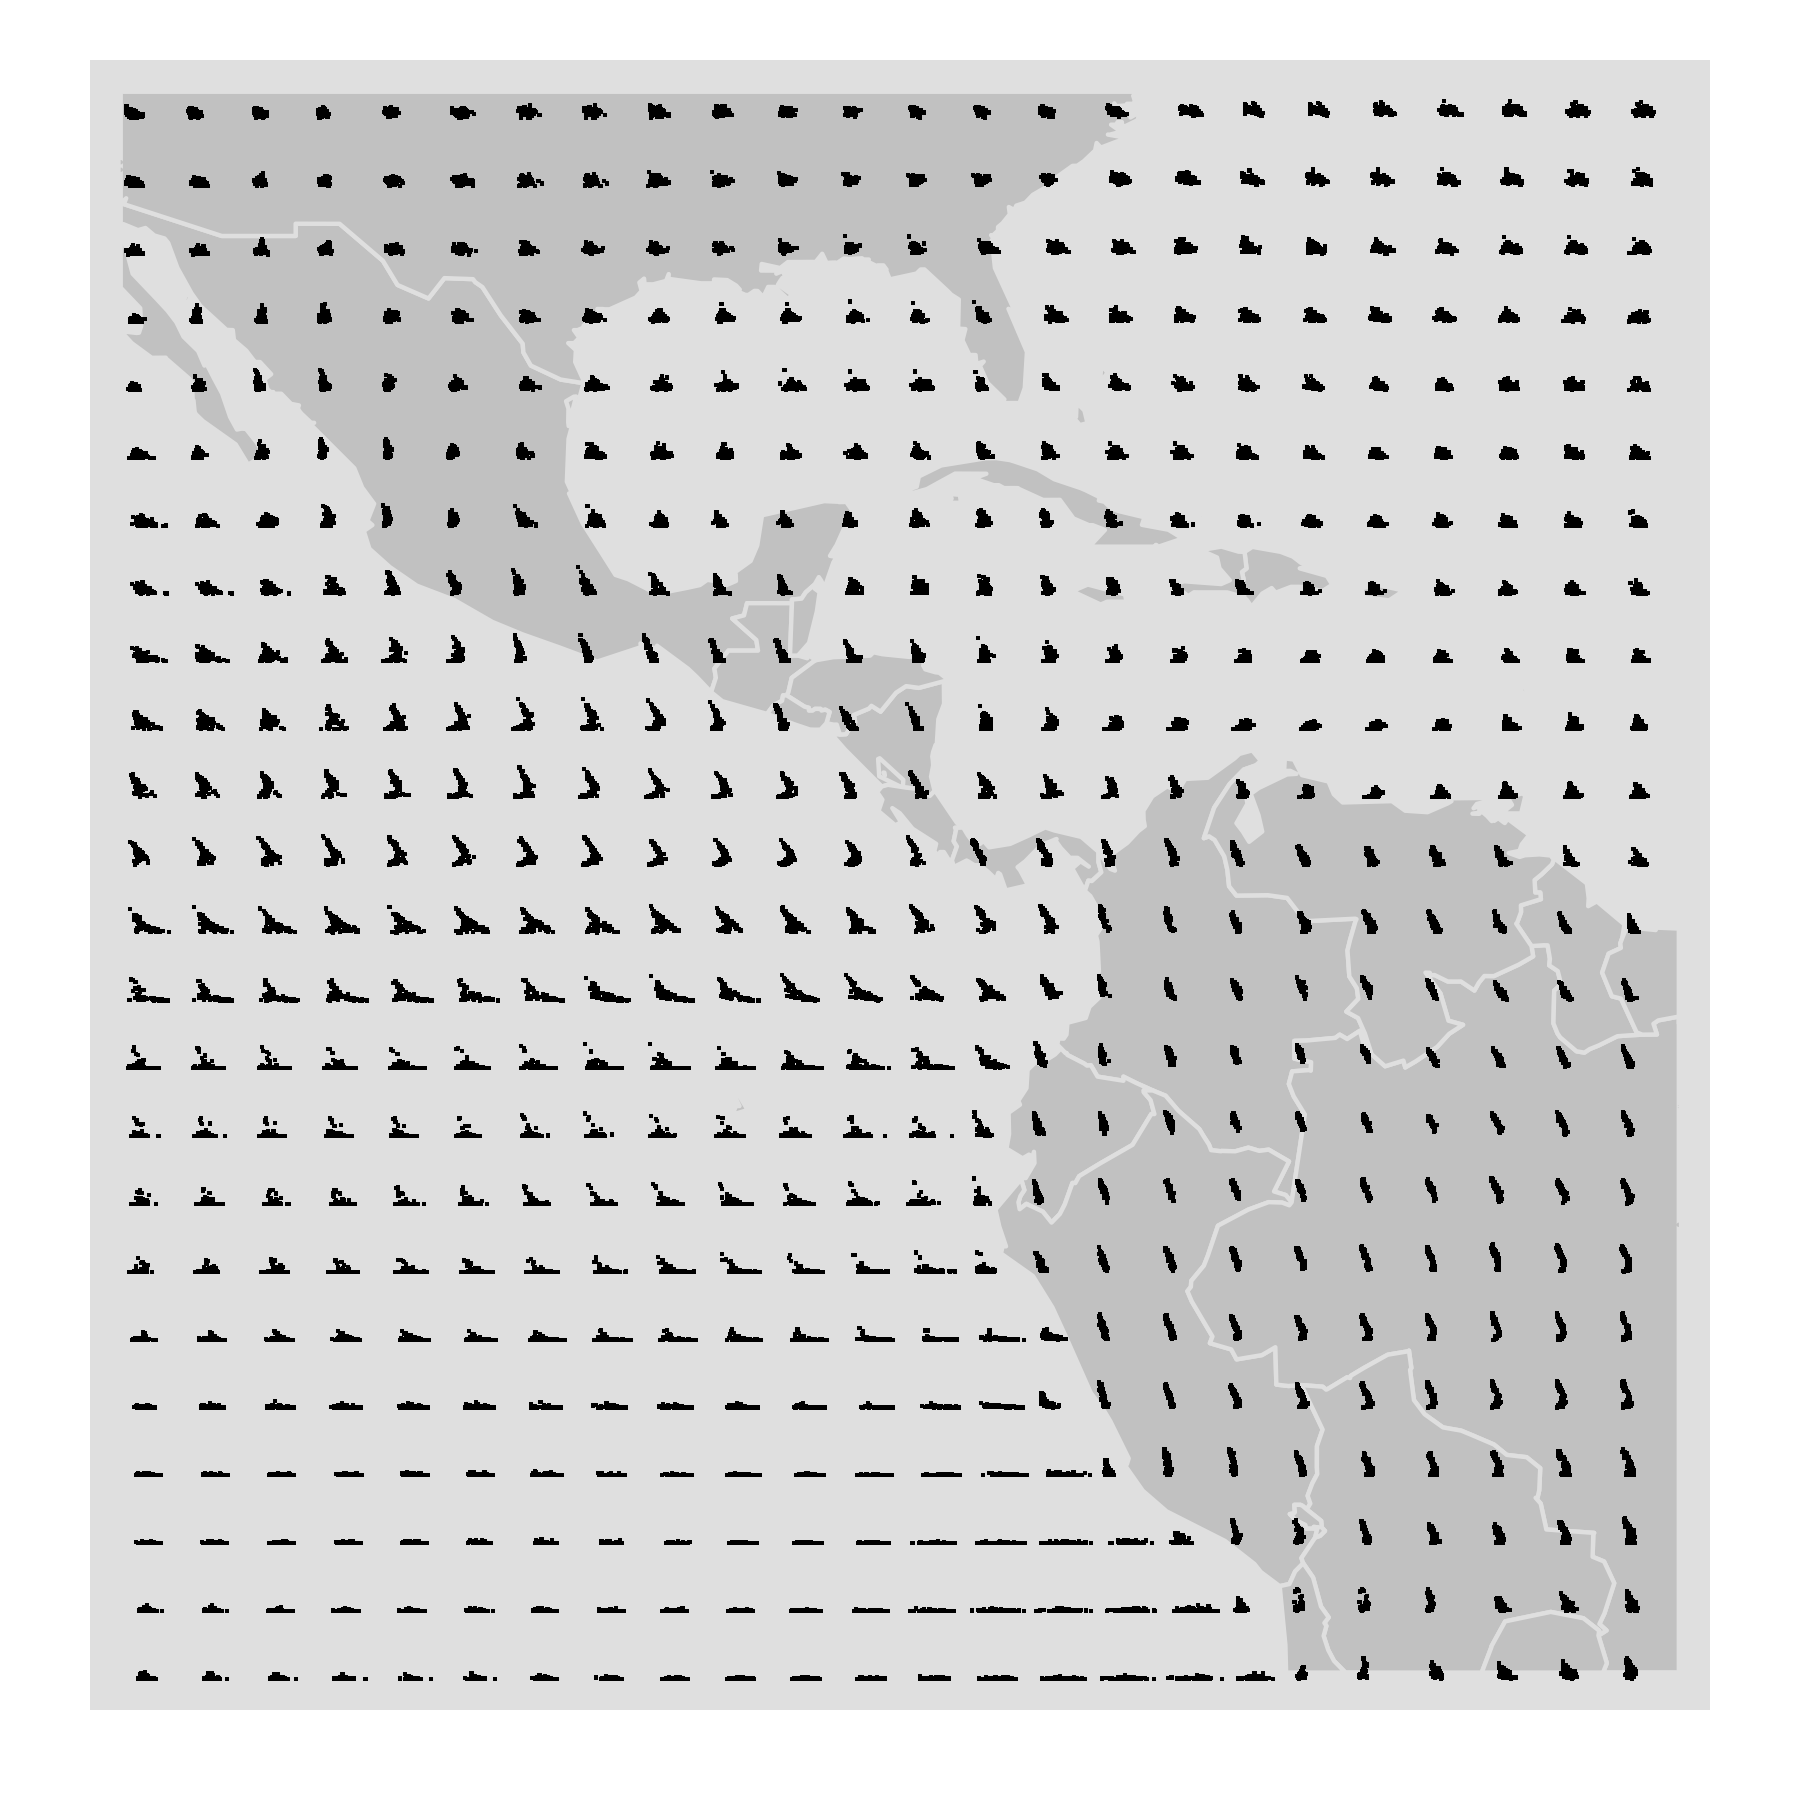
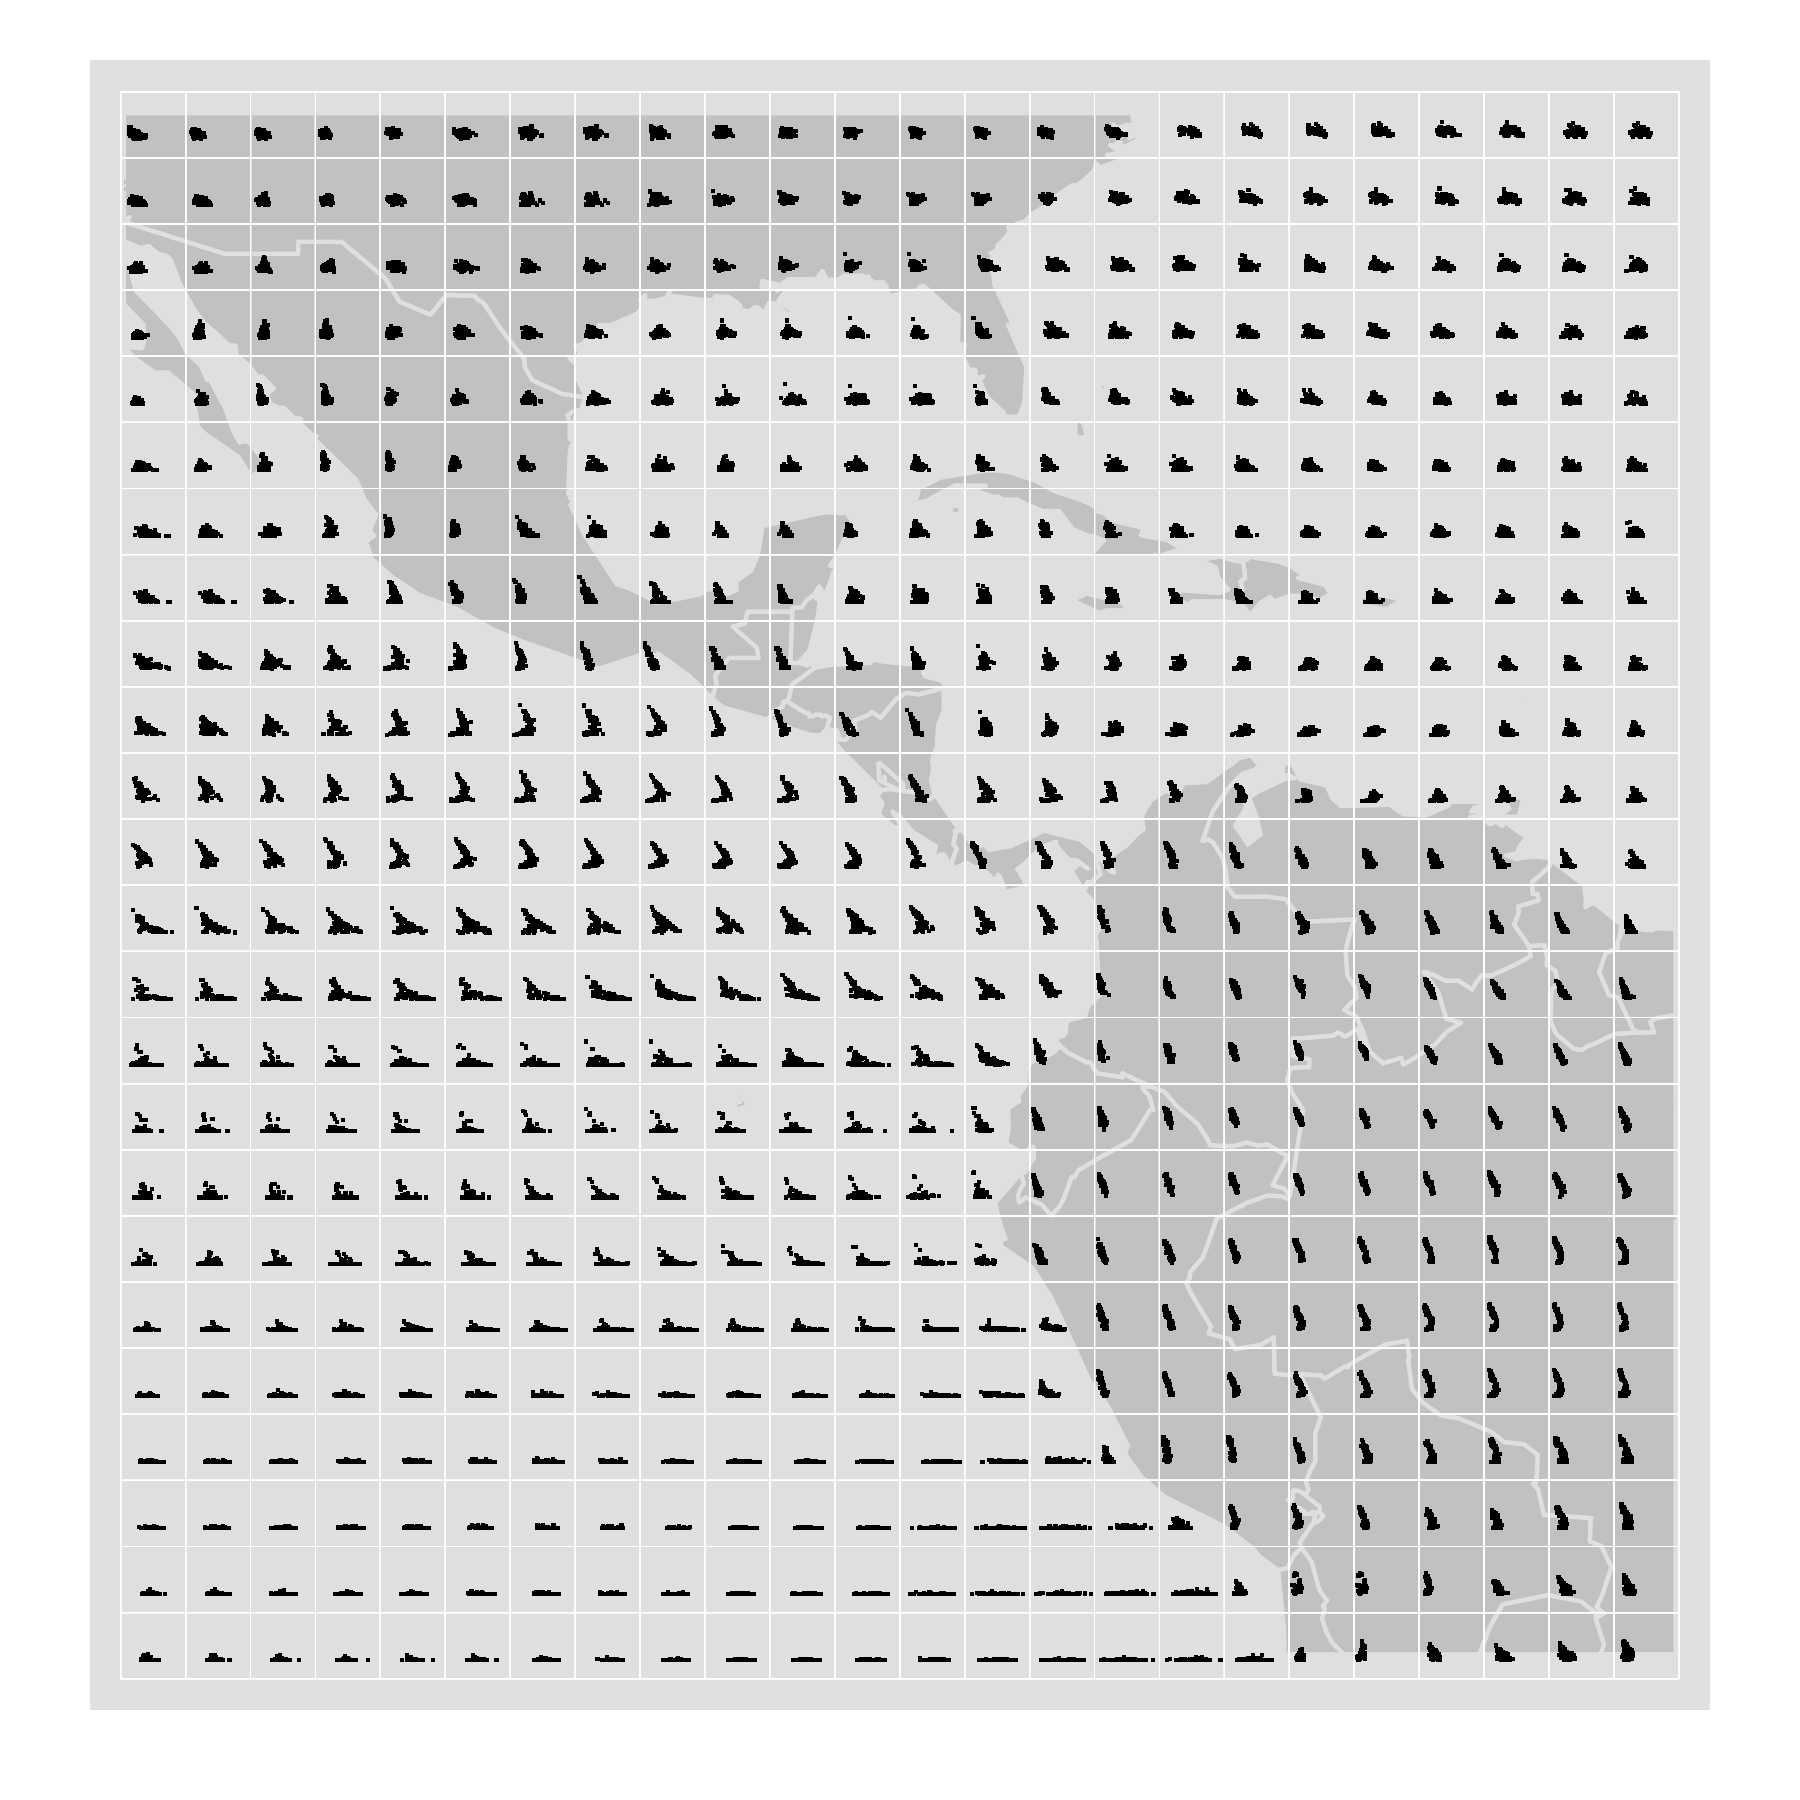
Tidy up scatterplot section

Changed region(s): [[0.0622, 0.0311, 0.9333, 0.9333], [0.1244, 0.56, 0.1556, 0.5911]]

diff --git a/paper.tex b/paper.tex
@@ -123,23 +123,17 @@ The alteration to the data transformation is quite simple. Without loss of gener
   \label{fig:cycle}
 \end{figure}
 
-\section{Scatterplots}
+\section{Generalization: scatterplots}
 
-So far we have limited ourselves to always mapping some aspect of time on the x-axis. But the method is much more general. Figure~\ref{fig:cloud} shows how by mapping another variable to the x-axis, in this case low-cloud level on x and high-cloud level on y, we can explore how this 2d distribution varies over space. Again, summarizing the data with models is very useful: the second plot displays a loess curve fit to the data instead of the individual points.  
+So far we have limited ourselves to always mapping some aspect of time on the x-axis. But glyph-maps are not limited to only this type of data and can  be easily generalized to create many other types of display. Figure~\ref{fig:cloud} shows a generalisation to scatterplots: by mapping another variable to the x-axis, in this case low-cloud level on x and high-cloud level on y, we can explore how a bivariate relationship varies spatially. It is again useful to use a model to extract the essence of the relationship, summarizing the data with models is very useful: the second plot displays a loess curve fit to the data instead of the individual points.  
 
 \begin{figure}[htbp]
   \centering
-   \includegraphics[width=0.5\linewidth]{clouds}%
-   \includegraphics[width=0.5\linewidth]{clouds-smooth}
-  \caption{caption}
+  \includegraphics[width=0.5\linewidth]{clouds}%
+  \includegraphics[width=0.5\linewidth]{clouds-smooth}
+
+  \caption{Glyph-map showing (left) scatterplot of high-cloud vs. low-cloud and (right) smoothed (loess) curve fit to each location. The relationship between these two variables varies considerably over the spatial domain (particularly between land and ocean), but neighbouring locations tend to similar. }
   \label{fig:cloud}
-\end{figure}
-
-\begin{figure}[htbp]
-  \centering
-    \includegraphics[width=0.5\linewidth]{clouds-heike}%
-  \caption{Just as an alternative: shaded map instead of the outlines. }
-  \label{fig:cloud-alt}
 \end{figure}
 
 \section{Effect of scale}
